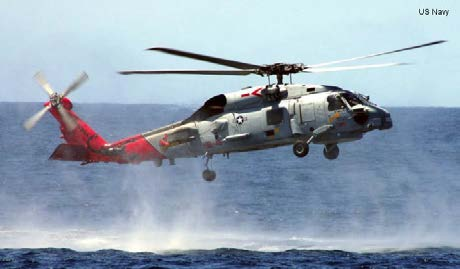
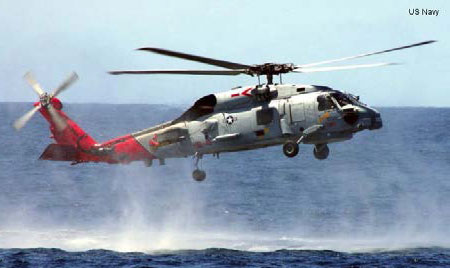
Adds "Trainee Guid Scrub Updates"

diff --git a/content/command.html b/content/command.html
@@ -1,7 +1,7 @@
 <div class="text-center">
 <h4 data-sectionTitle="Recruit Training">RECRUIT TRAINING SPECIFIC INFORMATION</h4>
   <div class="row text-left section">
-  	<div class="col-md-8 col-sm-8 col-md-8">
+  	<div class="col-md-6 col-sm-6 col-md-6">
 	    <ul class="command-line">
 		    <li>President of the United States</li>
 		    <li>Secretary of Defense </li>
@@ -10,7 +10,7 @@
 		    <li>- Master Chief Petty Officer of the Navy </li>
 		    <li>Chief of Navel Personnel</li>
 		    <li>- CNP Fleet Master Chief</li>
-		    <li>Commander, Naval Education and Training Command</li>
+		    <li>Commander, Naval Education &amp; Training Command</li>
 		    <li>- NETC Force Master Chief Petty Officer</li>
 		    <li>Commander, Naval Service Training Command</li>
 		    <li>- NSTC Command Master Chief Petty Officer</li>
@@ -29,30 +29,30 @@
 	    </ul>
 	</div>
 
-	<div class="col-xs-4 col-sm-4 col-md-4 form-spacing">
-		<input type="text" class="form-control inline-form" data-save="1">
-		<input type="text" class="form-control inline-form" data-save="2">
-		<input type="text" class="form-control inline-form" data-save="3">
-		<input type="text" class="form-control inline-form" data-save="4">
-		<input type="text" class="form-control inline-form" data-save="5">
-		<input type="text" class="form-control inline-form" data-save="6">
-		<input type="text" class="form-control inline-form" data-save="7">
-		<input type="text" class="form-control inline-form" data-save="8">
-		<input type="text" class="form-control inline-form" data-save="9">
-		<input type="text" class="form-control inline-form" data-save="10">
-		<input type="text" class="form-control inline-form" data-save="11">
-		<input type="text" class="form-control inline-form" data-save="12">
-		<input type="text" class="form-control inline-form" data-save="13">
-		<input type="text" class="form-control inline-form" data-save="14">
-		<input type="text" class="form-control inline-form" data-save="15">
-		<input type="text" class="form-control inline-form" data-save="16">
-		<input type="text" class="form-control inline-form" data-save="17">
-		<input type="text" class="form-control inline-form" data-save="18">
-		<input type="text" class="form-control inline-form" data-save="19">
-		<input type="text" class="form-control inline-form" data-save="20">
-		<input type="text" class="form-control inline-form" data-save="21">
-		<input type="text" class="form-control inline-form" data-save="22">
-		<input type="text" class="form-control inline-form" data-save="23">
+	<div class="col-xs-6 col-sm-6 col-md-6 chain-form-spacing">
+		<input id="President of the United States" type="text" name="President of the United States" value="President of the United States" class="form-control inline-form" data-save="1" onfocus="if (this.value == 'First Name') {this.value = '';}" onblur="if (this.value == '') ">
+		<input type="text" name="Secretary of Defense" value="Secretary of Defense" class="form-control inline-form" data-save="2">
+		<input type="text" name="Secretary of the Navy" value="Secretary of the Navy" class="form-control inline-form" data-save="3">
+		<input type="text" name="Chief of Naval Operations" value="Chief of Naval Operations" class="form-control inline-form" data-save="4">
+		<input type="text" name="- Master Chief Petty Officer of the Navy" value="- Master Chief Petty Officer of the Navy" class="form-control inline-form" data-save="5">
+		<input type="text" name="Chief of Navel Personnel" value="Chief of Navel Personnel" class="form-control inline-form" data-save="6">
+		<input type="text" name="- CNP Fleet Master Chief" value="- CNP Fleet Master Chief" class="form-control inline-form" data-save="7">
+		<input type="text" name="Commander, Naval Education &amp; Training Command" value="ommander, Naval Education &amp; Training Command" class="form-control inline-form" data-save="8">
+		<input type="text" name="- NETC Force Master Chief Petty Officer" value="- NETC Force Master Chief Petty Officer" class="form-control inline-form" data-save="9">
+		<input type="text" name="Commander, Naval Service Training Command" value="Commander, Naval Service Training Command" class="form-control inline-form" data-save="10">
+		<input type="text" name="- NSTC Command Master Chief Petty Officer" value="- NSTC Command Master Chief Petty Officer" class="form-control inline-form" data-save="11">
+		<input type="text" name="Commanding Officer, Recruit Training Command" value="Commanding Officer, Recruit Training Command" class="form-control inline-form" data-save="12">
+		<input type="text" name="- RTC Command Master Chief Petty Officer" value="- RTC Command Master Chief Petty Officer" class="form-control inline-form" data-save="13">
+		<input type="text" name="Executive Officer, Recruit Training Command" value="Executive Officer, Recruit Training Command" class="form-control inline-form" data-save="14">
+		<input type="text" name="Military Training Director" value="Military Training Director" class="form-control inline-form" data-save="15">
+		<input type="text" name="- MTD Leading Chief Petty Officer" value="- MTD Leading Chief Petty Officer" class="form-control inline-form" data-save="16">
+		<input type="text" name="Fleet Commander" value="Fleet Commander" class="form-control inline-form" data-save="17">
+		<input type="text" name="- Fleet Leading Chief Petty Officer" value="" class="form-control inline-form" data-save="18">
+		<input type="text" name="Ship's Officer" value="Ship's Officer" class="form-control inline-form" data-save="19">
+		<input type="text" name="- Ship's Leading Chief Petty Officer" value="-Ship's Leading Chief Petty Officer" class="form-control inline-form" data-save="20">
+		<input type="text" name="- Recruit Division Commander" value="- Recruit Division Commander" class="form-control inline-form" data-save="21">
+		<input type="text" name="- Recruit Division Commander" value="-Recruit Division Commander" class="form-control inline-form" data-save="22">
+		<input type="text" name="- Recruit Division Commander" value="- Recruit Division Commander" class="form-control inline-form" data-save="23">
 	</div>
   </div>
 </div>

diff --git a/content/aircraft.html b/content/aircraft.html
@@ -18,7 +18,7 @@
   <li class="head-1">Introduction</li>
   <p>This lesson provides some basic information about current U.S. Navy aircraft their mission and potential weapons systems they carry.</p>
   <p>The following Naval Standards will be touched on in this lesson: H 038, H293. NAVPERS 18068F, Naval Standards for E1 through E3 may be found in the Recruit Trainee Guide</p>
-  <li class="head-1">US Navy Aircraft</li>
+  <li class="head-1">U.S. Navy Aircraft</li>
   <blockquote><strong>NOTE:</strong> Naval Air Reserve squadrons also maintain and operate many different types of aircraft. Their missions are the same as their active duty counterpart.</blockquote>
   <ol type="a">
     <li>Most of today’s modern Navy aircraft are no longer designed for a single mission. The evolution of warfare and conflict areas requires a <input type="text" class="form-control inline-form" data-save="1"> capability.</li>
@@ -47,7 +47,7 @@
             <div class="m-x-auto">
               <div class="img-wrap">
                 <img src="img/orion.jpg" class="img-responsive" alt="FP-3 Orion" width="520" height="520">
-                <p>FP-3 Orion</p>
+                <p>P-3 Orion</p>
               </div>
             </div>
           </div>
@@ -85,7 +85,7 @@
         <div class="m-x-auto">
           <div class="img-wrap">
             <img src="img/c2Cod.jpg" class="img-responsive" alt="F/A-18 Super Hornet" width="560" height="560">
-            <p>FC-2 COD delivering personnel/supplies</p>
+            <p>C-2 COD delivering personnel/supplies</p>
           </div>
         </div>
       </div>
@@ -133,14 +133,14 @@
         <li>HH-60 primary mission is search and rescue and special warfare support.</li>
         <li>MH-60 primary mission is vertical replenishment (VERTREP)</li>
         <li>The H-60 is capable of carrying; the GAU-21 .50 caliber machine gun, rockets, Hellfire missiles and ACM-119 anti-ship missile.</li>
-
-        <div class="row photos">
+ </ol>
+        <div class="row photos-vertical">
          <div class="m-x-auto">
-          <div class="img-wrap img-float">
-            <img src="img/h60-1.jpg" width="259" height="248">
+          <div class="img-wrap">
+            <img src="img/h60-1.jpg" width="450" height="268" style="margin-bottom:4px;">
           </div>
           <div class="img-wrap">
-           <img src="img/h60-2.jpg" class="pad-left" width="259" height="248">
+           <img src="img/h60-2.jpg" width="450" height="360">
          </div>
        </div>
      </div>
@@ -148,12 +148,12 @@
      <div class="photos">
       <div class="m-x-auto">
       <div class="img-wrap">
-      <img src="img/h60-3.jpg" class="img-responsive" width="520" height="520">
+      <img src="img/h60-3.jpg" class="img-responsive" width="560" height="560">
     </div>
   </div>
 </div>
 
-  </ol>
+ 
   <li>MH-53E Sea Dragon</li>
   <ol type="1">
     <li>The MH-53E Sea Dragon is used primarily for Airborne <input type="text" class="form-control inline-form" data-save="11"> <input type="text" class="form-control inline-form" data-save="12"> (AMCM), with secondary missions of vertical shipboard delivery and assault support.</li>
@@ -222,10 +222,10 @@
 
 <div class="study-list-wrapper">
 
-  <h2>C. Study Assignment</h2>
+  <h2>A. Study Assignment</h2>
   <p>The Bluejacket’s Manual, 24th Edition, pages 261 through 284</p>
 
-  <h2>D. Study Questions</h2>
+  <h2>B. Study Questions</h2>
   <ol>
     <li>What are three categories of U.S. Navy aircraft?
       <ol>

diff --git a/index.html b/index.html
@@ -18,6 +18,8 @@
 	<!-- TYPOGRAPHY -->
 	<link href='https://fonts.googleapis.com/css?family=Open+Sans:400italic,600italic,700,600,400,300,300italic,700italic' rel='stylesheet' type='text/css'>
 
+
+
 </head>
 
 <body data-spy="scroll" data-target="#myScrollspy" data-offset="20">
@@ -151,7 +153,7 @@
 			<footer class="footer">
 				<div class="container-fluid">
 					<div class="row">
-						<div class="col-xs-6 col-sm-6 col-md-6"><p class="left">A-950-0001 v1.1</p></div>
+						<div class="col-xs-6 col-sm-6 col-md-6"><p class="left">A-950-0001 v1.2, October 13</p></div>
 						<div class="col-xs-6 col-sm-6 col-md-6"> <p class="right">For Training Use Only</p></div>
 					</div>
 				</div>
@@ -414,7 +416,7 @@
 					<div class="modal-content">
 						<div class="modal-header">
 							<button type="button" class="close" data-dismiss="modal">&times;</button>
-							<h4 class="modal-title">X-class</h4>
+							<h4 class="modal-title">X-Class</h4>
 						</div>
 						<div class="modal-body">
 							<img src="img/xclass.jpg" class="img-responsive">
@@ -454,10 +456,10 @@
 					<div class="modal-content">
 						<div class="modal-header">
 							<button type="button" class="close" data-dismiss="modal">&times;</button>
-							<h4 class="modal-title">Semi-submersible craft</h4>
+							<h4 class="modal-title">Semi-Submersible Craft</h4>
 						</div>
 						<div class="modal-body">
-							<img src="img/rib.jpg" class="img-responsive">
+							<img src="img/snorkler1.jpg" class="img-responsive">
 						</div>
 						<div class="modal-footer">
 							<button type="button" class="btn btn-default" data-dismiss="modal">Close</button>
@@ -491,5 +493,7 @@
     	var selText = $(this).text();
     	$(this).parents('.dropdown').find('.dropdown-toggle').html(selText+' <span class="caret"></span>');
     });</script>
+
+
 </body>
 </html>

diff --git a/css/main.css b/css/main.css
@@ -724,6 +724,15 @@ small {
 
 /* IMAGE STYLES */
 /* line 439, ../scss/modules/_sections.scss */
+.photos-vertical {
+  border-top: 4px solid #9e9e9e;
+  border-bottom: 1px solid #9e9e9e;
+  padding: 20px 0;
+  margin: 50px 0;
+  width: 450px;
+}
+
+/* line 447, ../scss/modules/_sections.scss */
 .photos {
   border-top: 4px solid #9e9e9e;
   border-bottom: 1px solid #9e9e9e;
@@ -732,33 +741,50 @@ small {
   width: 100%;
 }
 
-/* line 447, ../scss/modules/_sections.scss */
+/* line 455, ../scss/modules/_sections.scss */
 .pad-left {
   padding-left: 0;
   border-left: 3px solid #ffffff;
 }
 
-/* line 452, ../scss/modules/_sections.scss */
+/* line 460, ../scss/modules/_sections.scss */
 .pad-right {
   padding-right: 0;
 }
 
-/* line 456, ../scss/modules/_sections.scss */
+/* line 464, ../scss/modules/_sections.scss */
 .img-wrap {
   display: inline-block;
   width: auto;
 }
-/* line 460, ../scss/modules/_sections.scss */
+/* line 468, ../scss/modules/_sections.scss */
 .img-wrap p {
   text-align: left;
   font-size: 14px;
   margin-top: 5px;
 }
 
-/* line 467, ../scss/modules/_sections.scss */
+/* line 475, ../scss/modules/_sections.scss */
 .img-float {
   float: left;
   margin-right: 2px;
+}
+
+/* RECRUIT CHAIN OF COMMAND */
+/* line 482, ../scss/modules/_sections.scss */
+.chain-form-spacing input {
+  width: 360px;
+  margin-bottom: 15px;
+}
+
+/* line 487, ../scss/modules/_sections.scss */
+.command-line li {
+  margin-bottom: 10px;
+}
+
+/* line 491, ../scss/modules/_sections.scss */
+.autoModal.modal .modal-body {
+  max-height: 100%;
 }
 
 /* line 3, ../scss/modules/_components.scss */

diff --git a/content/navy.html b/content/navy.html
@@ -279,21 +279,20 @@
  </div>
  <li>Dock Landing Ships (LSD) Transport and land; troops, cargo, amphibious vehicles, and landing craft air cushion (LCAC). Support amphibious assault, special operations or expeditionary warfare missions. Also, serve as aviation platforms for amphibious ready groups.</li>
 
-</ol>
 
 <div class="row photos">
   <div class="m-x-auto">
     <div class="img-wrap img-float">
-      <img src="img/pearlHarbor.jpg" alt="USS Pearl Harbor (LSD-52)" width="319" height="198">
+      <img src="img/pearlHarbor.jpg" alt="USS Pearl Harbor (LSD-52)" width="299" height="186">
       <p>USS Pearl Harbor (LSD-52)</p>
     </div>
     <div class="img-wrap">
-      <img src="img/lcac73.jpg" class="pad-left" alt="LCAC-73" width="319" height="198">
+      <img src="img/lcac73.jpg" class="pad-left" alt="LCAC-73" width="299" height="186">
       <p>LCAC-73</p>
     </div>
   </div>
 </div>
-
+</ol>
 <li>Weapons (LHA, LHD, LPD, LSD)</li>
 <ol type="1">
   <li>RAM missiles, Sea Sparrow, Phalanx, .50 caliber machine guns</li>

diff --git a/content/introduction.html b/content/introduction.html
@@ -1,4 +1,5 @@
 <div class="section1">
+<h2>Welcome Aboard!</h2>
   <p>Welcome aboard! These words carry a world of significance. They mean that you have made one of the biggest decisions a young person can -- you have volunteered to enlist in the United States Navy. By raising your right hand and taking the oath of enlistment, you have become a member of one of the most important military services in the world and joined one of the biggest businesses in the United States. Not only have you proved your understanding of citizenship by offering your services to your country, but you have also taken the first step toward an exciting and rewarding career should you choose to remain in the Navy.</p>
 
   <p>If you are not already familiar with names like John Paul Jones, Stephen Decatur, Doris Miller, William F. Halsey, and Marvin Shields, you soon will be. And you will feel honored to be serving, as they once did, in the United States Navy.</p>

diff --git a/content/writing.html b/content/writing.html
@@ -1,34 +1,5 @@
 <div class="text-center">
-	<h1 style="font-size:60px; color:#044175; font-weight:bolder;"><strong>"RECRUIT WRITING"</strong></h1>
 	<div class="row writing">
-		<h3>A B C D E F G H I J K L M <br> N O P Q R S T U V W X Y Z</h3>
-		<h5>0 1 2 3 4 5 6 7 8 9</h5>
-
-		<div class="month-wrap">
-		<div class="col-xs-3 col-sm-3 col-md-3 col-lg-3">
-			<ul class="month">
-				<li>JAN</li>
-				<li>APR</li>
-				<li>JUL</li>
-				<li>OCT</li>
-			</ul>
-		</div>
-		<div class="col-xs-3 col-sm-3 col-md-3 col-lg-3">
-			<ul class="month">
-				<li>FEB</li>
-				<li>MAY</li>
-				<li>AUG</li>
-				<li>NOV</li>
-			</ul>
-		</div>
-		<div class="col-xs-3 col-sm-3 col-md-3 col-lg-3">
-			<ul class="month">
-				<li>MAR</li>
-				<li>JUN</li>
-				<li>SEP</li>
-				<li>DEC</li>
-			</ul>
-		</div>
-	</div>
+	<img src="img/recruitWriting.jpg">
 	</div>
 </div>

diff --git a/scss/modules/_sections.scss b/scss/modules/_sections.scss
@@ -436,6 +436,14 @@ $medium: #333;
 
 /* IMAGE STYLES */
 
+.photos-vertical {
+  border-top:4px solid $medium-grey;
+  border-bottom:1px solid $medium-grey;
+  padding:20px 0;
+  margin:50px 0;
+  width:450px;
+}
+
 .photos {
   border-top:4px solid $medium-grey;
   border-bottom:1px solid $medium-grey;
@@ -469,3 +477,17 @@ p {
   margin-right:2px;
 }
 
+/* RECRUIT CHAIN OF COMMAND */
+
+.chain-form-spacing input {
+  width:360px;
+  margin-bottom:15px;
+}
+
+.command-line li {
+  margin-bottom:10px;
+}
+
+.autoModal.modal .modal-body{
+    max-height: 100%;
+}

diff --git a/content/maxim.html b/content/maxim.html
@@ -1,8 +1,7 @@
   <div class="row section">
   	<div class="rtc-wrap">
   		<div class="rtc">		
-  			<h1>RTC Maxim</h1>
-  			<p class="lead" style="font-size:25px; margin-top:30px;">I will not lie, cheat, or steal, nor tolerate those among us who do.</p>
+  			<p class="lead" style="font-size:40px; margin-top:30px;">I will not lie, cheat, or steal, nor tolerate those among us who do.</p>
   			<img src="img/rtc-logo.png">
   		</div>
   	</div>
